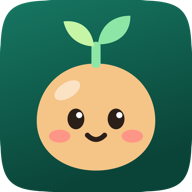
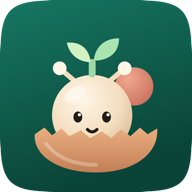
사이트: 로고를 마스코트 아기 달팽이로(45 v1.1) — 파비콘·앱 아이콘·공유 이미지

diff --git a/index.html b/index.html
@@ -30,7 +30,7 @@
 <link rel="icon" href="/favicon.svg" type="image/svg+xml">
 <link rel="apple-touch-icon" href="/apple-touch-icon.png">
 <link rel="manifest" href="/site.webmanifest">
-<link rel="stylesheet" href="/assets/styles.css?v=mv1m0l89">
+<link rel="stylesheet" href="/assets/styles.css?v=mv1y6t2x">
 </head>
 <body>
 <a class="skip" href="#main"><span lang="ko" data-l="ko">본문으로 건너뛰기</span><span lang="en" data-l="en">Skip to content</span></a>
@@ -183,7 +183,7 @@
 <a href="/support"><span lang="ko" data-l="ko">지원</span><span lang="en" data-l="en">Support</span></a>
 </nav>
 </div></footer>
-<script src="/assets/app.js?v=mv1m0l89" defer></script>
-<script src="/assets/demos.js?v=mv1m0l89" defer></script>
+<script src="/assets/app.js?v=mv1y6t2x" defer></script>
+<script src="/assets/demos.js?v=mv1y6t2x" defer></script>
 </body>
 </html>

diff --git a/account-deletion.html b/account-deletion.html
@@ -30,7 +30,7 @@
 <link rel="icon" href="/favicon.svg" type="image/svg+xml">
 <link rel="apple-touch-icon" href="/apple-touch-icon.png">
 <link rel="manifest" href="/site.webmanifest">
-<link rel="stylesheet" href="/assets/styles.css?v=mv1m0l89">
+<link rel="stylesheet" href="/assets/styles.css?v=mv1y6t2x">
 </head>
 <body>
 <a class="skip" href="#main"><span lang="ko" data-l="ko">본문으로 건너뛰기</span><span lang="en" data-l="en">Skip to content</span></a>
@@ -103,6 +103,6 @@
 <a href="/support"><span lang="ko" data-l="ko">지원</span><span lang="en" data-l="en">Support</span></a>
 </nav>
 </div></footer>
-<script src="/assets/app.js?v=mv1m0l89" defer></script>
+<script src="/assets/app.js?v=mv1y6t2x" defer></script>
 </body>
 </html>

diff --git a/privacy.html b/privacy.html
@@ -30,7 +30,7 @@
 <link rel="icon" href="/favicon.svg" type="image/svg+xml">
 <link rel="apple-touch-icon" href="/apple-touch-icon.png">
 <link rel="manifest" href="/site.webmanifest">
-<link rel="stylesheet" href="/assets/styles.css?v=mv1m0l89">
+<link rel="stylesheet" href="/assets/styles.css?v=mv1y6t2x">
 </head>
 <body>
 <a class="skip" href="#main"><span lang="ko" data-l="ko">본문으로 건너뛰기</span><span lang="en" data-l="en">Skip to content</span></a>
@@ -145,6 +145,6 @@
 <a href="/support"><span lang="ko" data-l="ko">지원</span><span lang="en" data-l="en">Support</span></a>
 </nav>
 </div></footer>
-<script src="/assets/app.js?v=mv1m0l89" defer></script>
+<script src="/assets/app.js?v=mv1y6t2x" defer></script>
 </body>
 </html>

diff --git a/terms.html b/terms.html
@@ -30,7 +30,7 @@
 <link rel="icon" href="/favicon.svg" type="image/svg+xml">
 <link rel="apple-touch-icon" href="/apple-touch-icon.png">
 <link rel="manifest" href="/site.webmanifest">
-<link rel="stylesheet" href="/assets/styles.css?v=mv1m0l89">
+<link rel="stylesheet" href="/assets/styles.css?v=mv1y6t2x">
 </head>
 <body>
 <a class="skip" href="#main"><span lang="ko" data-l="ko">본문으로 건너뛰기</span><span lang="en" data-l="en">Skip to content</span></a>
@@ -125,6 +125,6 @@
 <a href="/support"><span lang="ko" data-l="ko">지원</span><span lang="en" data-l="en">Support</span></a>
 </nav>
 </div></footer>
-<script src="/assets/app.js?v=mv1m0l89" defer></script>
+<script src="/assets/app.js?v=mv1y6t2x" defer></script>
 </body>
 </html>

diff --git a/404.html b/404.html
@@ -30,7 +30,7 @@
 <link rel="icon" href="/favicon.svg" type="image/svg+xml">
 <link rel="apple-touch-icon" href="/apple-touch-icon.png">
 <link rel="manifest" href="/site.webmanifest">
-<link rel="stylesheet" href="/assets/styles.css?v=mv1m0l89">
+<link rel="stylesheet" href="/assets/styles.css?v=mv1y6t2x">
 </head>
 <body>
 <a class="skip" href="#main"><span lang="ko" data-l="ko">본문으로 건너뛰기</span><span lang="en" data-l="en">Skip to content</span></a>
@@ -62,6 +62,6 @@
 <a href="/support"><span lang="ko" data-l="ko">지원</span><span lang="en" data-l="en">Support</span></a>
 </nav>
 </div></footer>
-<script src="/assets/app.js?v=mv1m0l89" defer></script>
+<script src="/assets/app.js?v=mv1y6t2x" defer></script>
 </body>
 </html>

diff --git a/support.html b/support.html
@@ -30,7 +30,7 @@
 <link rel="icon" href="/favicon.svg" type="image/svg+xml">
 <link rel="apple-touch-icon" href="/apple-touch-icon.png">
 <link rel="manifest" href="/site.webmanifest">
-<link rel="stylesheet" href="/assets/styles.css?v=mv1m0l89">
+<link rel="stylesheet" href="/assets/styles.css?v=mv1y6t2x">
 </head>
 <body>
 <a class="skip" href="#main"><span lang="ko" data-l="ko">본문으로 건너뛰기</span><span lang="en" data-l="en">Skip to content</span></a>
@@ -97,6 +97,6 @@
 <a href="/support"><span lang="ko" data-l="ko">지원</span><span lang="en" data-l="en">Support</span></a>
 </nav>
 </div></footer>
-<script src="/assets/app.js?v=mv1m0l89" defer></script>
+<script src="/assets/app.js?v=mv1y6t2x" defer></script>
 </body>
 </html>
